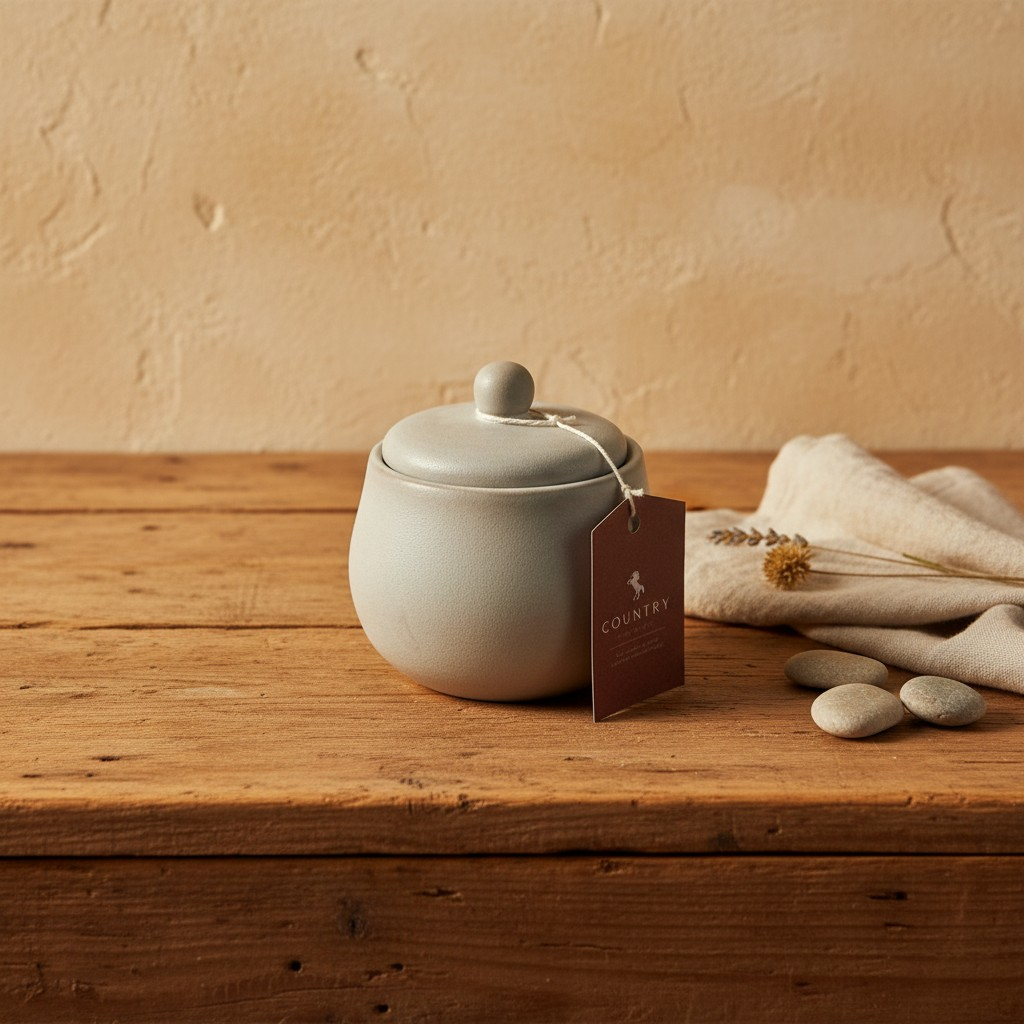
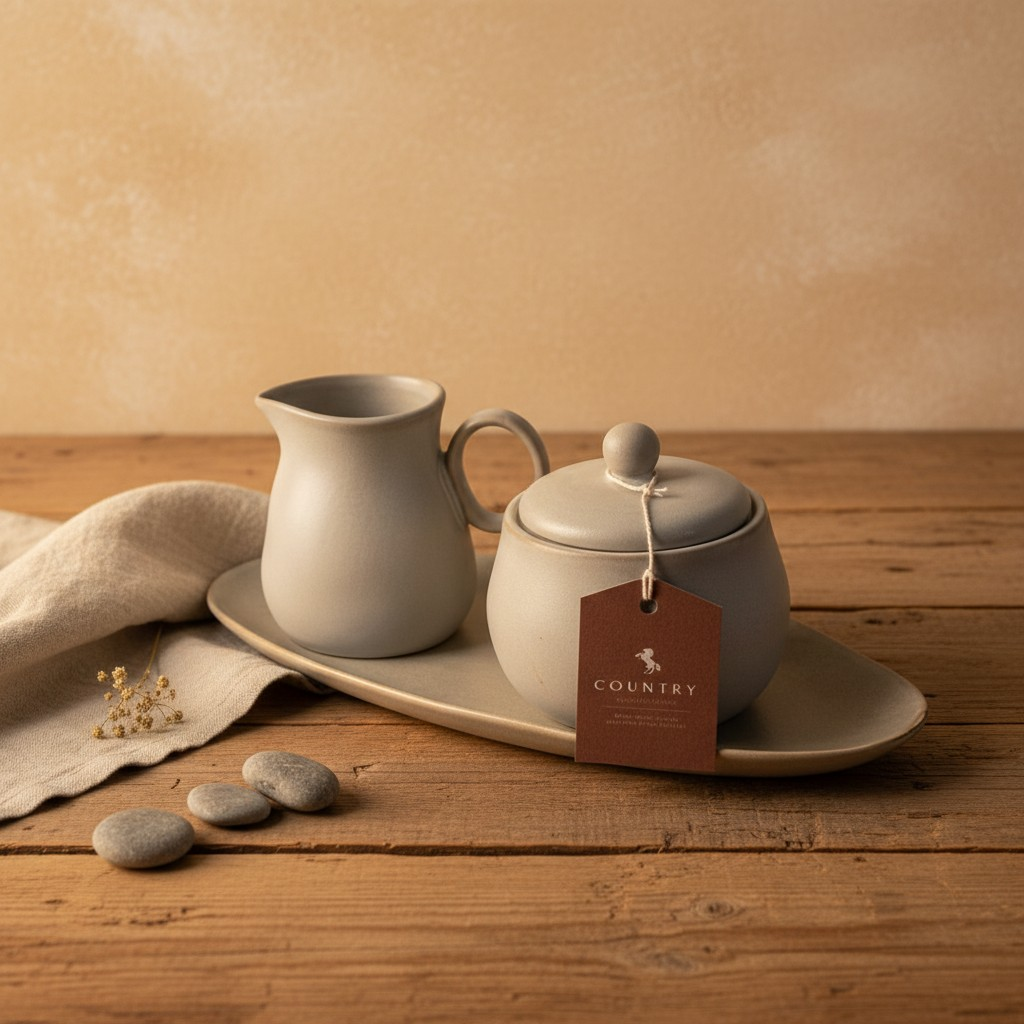
set-sorrento: add 4 set-completo photos as first images (total 7)

diff --git a/index.html b/index.html
@@ -2082,7 +2082,7 @@ src="https://www.facebook.com/tr?id=1479825037203290&ev=PageView&noscript=1"/></
   <div class="product" id="azucarera-sorrento"><img loading="lazy" class="main-photo" src="FOTOS/mishka/azucarera-sorrento/1.jpg" alt="Azucarera Sorrento"><div class="thumbnails"><img loading="lazy" src="FOTOS/mishka/azucarera-sorrento/1.jpg" class="active" onmouseover="changeMain(this)"><img loading="lazy" src="FOTOS/mishka/azucarera-sorrento/2.jpg" onmouseover="changeMain(this)"><img loading="lazy" src="FOTOS/mishka/azucarera-sorrento/3.jpg" onmouseover="changeMain(this)"><img loading="lazy" src="FOTOS/mishka/azucarera-sorrento/4.jpg" onmouseover="changeMain(this)"><img loading="lazy" src="FOTOS/mishka/azucarera-sorrento/5.jpg" onmouseover="changeMain(this)"><img loading="lazy" src="FOTOS/mishka/azucarera-sorrento/6.jpg" onmouseover="changeMain(this)"></div><div class="product-info"><div class="product-name">Azucarera Sorrento 10,5×11 cm</div><div class="product-desc">Porcelana · Línea Sorrento · Detalle que completa cualquier mesa · 10,5×11 cm</div><div class="product-price">$17.000</div><span class="product-tag">Mesa & Cocina</span></div></div>
   <div class="product" id="lechera-sorrento"><img loading="lazy" class="main-photo" src="FOTOS/mishka/lechera-sorrento/1.jpg" alt="Lechera Sorrento 280ml"><div class="thumbnails"><img loading="lazy" src="FOTOS/mishka/lechera-sorrento/1.jpg" class="active" onmouseover="changeMain(this)"><img loading="lazy" src="FOTOS/mishka/lechera-sorrento/2.jpg" onmouseover="changeMain(this)"><img loading="lazy" src="FOTOS/mishka/lechera-sorrento/3.jpg" onmouseover="changeMain(this)"><img loading="lazy" src="FOTOS/mishka/lechera-sorrento/4.jpg" onmouseover="changeMain(this)"><img loading="lazy" src="FOTOS/mishka/lechera-sorrento/5.jpg" onmouseover="changeMain(this)"><img loading="lazy" src="FOTOS/mishka/lechera-sorrento/6.jpg" onmouseover="changeMain(this)"></div><div class="product-info"><div class="product-name">Lechera Sorrento 280 ml</div><div class="product-desc">Porcelana · Línea Sorrento · Pequeño detalle de gran impacto en la mesa · 280 ml</div><div class="product-price">$16.500</div><span class="product-tag">Mesa & Cocina</span></div></div>
   <div class="product" id="bandeja-sorrento"><img loading="lazy" class="main-photo" src="FOTOS/mishka/bandeja-sorrento/1.jpg" alt="Bandeja Ovalada Sorrento"><div class="thumbnails"><img loading="lazy" src="FOTOS/mishka/bandeja-sorrento/1.jpg" class="active" onmouseover="changeMain(this)"><img loading="lazy" src="FOTOS/mishka/bandeja-sorrento/2.jpg" onmouseover="changeMain(this)"><img loading="lazy" src="FOTOS/mishka/bandeja-sorrento/3.jpg" onmouseover="changeMain(this)"></div><div class="product-info"><div class="product-name">Bandeja Ovalada Sorrento 30×14,5 cm</div><div class="product-desc">Porcelana · Línea Sorrento · Para servir con estilo · 30×14,5 cm</div><div class="product-price">$35.999</div><span class="product-tag">Mesa & Cocina</span></div></div>
-  <div class="product" id="set-sorrento"><img loading="lazy" class="main-photo" src="FOTOS/mishka/set-sorrento/1.jpg" alt="Set Completo Sorrento"><div class="thumbnails"><img loading="lazy" src="FOTOS/mishka/set-sorrento/1.jpg" class="active" onmouseover="changeMain(this)"><img loading="lazy" src="FOTOS/mishka/set-sorrento/2.jpg" onmouseover="changeMain(this)"><img loading="lazy" src="FOTOS/mishka/set-sorrento/3.jpg" onmouseover="changeMain(this)"></div><div class="product-info"><div class="product-name">Set Completo Sorrento</div><div class="product-desc">Porcelana · Línea Sorrento · Azucarera + Lechera + Bandeja Ovalada · El set completo para una mesa perfecta</div><div class="product-price">$60.000</div><span class="product-tag">Mesa & Cocina</span></div></div>
+  <div class="product" id="set-sorrento"><img loading="lazy" class="main-photo" src="FOTOS/mishka/set-sorrento/1.jpg" alt="Set Completo Sorrento"><div class="thumbnails"><img loading="lazy" src="FOTOS/mishka/set-sorrento/1.jpg" class="active" onmouseover="changeMain(this)"><img loading="lazy" src="FOTOS/mishka/set-sorrento/2.jpg" onmouseover="changeMain(this)"><img loading="lazy" src="FOTOS/mishka/set-sorrento/3.jpg" onmouseover="changeMain(this)"><img loading="lazy" src="FOTOS/mishka/set-sorrento/4.jpg" onmouseover="changeMain(this)"><img loading="lazy" src="FOTOS/mishka/set-sorrento/5.jpg" onmouseover="changeMain(this)"><img loading="lazy" src="FOTOS/mishka/set-sorrento/6.jpg" onmouseover="changeMain(this)"><img loading="lazy" src="FOTOS/mishka/set-sorrento/7.jpg" onmouseover="changeMain(this)"></div><div class="product-info"><div class="product-name">Set Completo Sorrento</div><div class="product-desc">Porcelana · Línea Sorrento · Azucarera + Lechera + Bandeja Ovalada · El set completo para una mesa perfecta</div><div class="product-price">$60.000</div><span class="product-tag">Mesa & Cocina</span></div></div>
   <div class="product" id="bowl-sundara-rectangular"><img loading="lazy" class="main-photo" src="FOTOS/mishka/bowl-sundara-rectangular/1.jpg" alt="Bowl Rectangular Sundara 700ml"><div class="thumbnails"><img loading="lazy" src="FOTOS/mishka/bowl-sundara-rectangular/1.jpg" class="active" onmouseover="changeMain(this)"><img loading="lazy" src="FOTOS/mishka/bowl-sundara-rectangular/2.jpg" onmouseover="changeMain(this)"><img loading="lazy" src="FOTOS/mishka/bowl-sundara-rectangular/3.jpg" onmouseover="changeMain(this)"><img loading="lazy" src="FOTOS/mishka/bowl-sundara-rectangular/4.jpg" onmouseover="changeMain(this)"><img loading="lazy" src="FOTOS/mishka/bowl-sundara-rectangular/5.jpg" onmouseover="changeMain(this)"><img loading="lazy" src="FOTOS/mishka/bowl-sundara-rectangular/6.jpg" onmouseover="changeMain(this)"></div><div class="product-info"><div class="product-name">Bowl Rectangular Sundara 700 ml</div><div class="product-desc">Diseño orgánico y artesanal · Ideal para presentaciones en la mesa · 700 ml</div><div class="product-price">$45.999</div><span class="product-tag">Mesa & Cocina</span></div></div>
   <div class="product" id="bowl-sundara-redondo"><img loading="lazy" class="main-photo" src="FOTOS/mishka/bowl-sundara-redondo/1.jpg" alt="Bowl Redondo Sundara 1000ml"><div class="thumbnails"><img loading="lazy" src="FOTOS/mishka/bowl-sundara-redondo/1.jpg" class="active" onmouseover="changeMain(this)"><img loading="lazy" src="FOTOS/mishka/bowl-sundara-redondo/2.jpg" onmouseover="changeMain(this)"><img loading="lazy" src="FOTOS/mishka/bowl-sundara-redondo/3.jpg" onmouseover="changeMain(this)"><img loading="lazy" src="FOTOS/mishka/bowl-sundara-redondo/4.jpg" onmouseover="changeMain(this)"><img loading="lazy" src="FOTOS/mishka/bowl-sundara-redondo/5.jpg" onmouseover="changeMain(this)"><img loading="lazy" src="FOTOS/mishka/bowl-sundara-redondo/6.jpg" onmouseover="changeMain(this)"><img loading="lazy" src="FOTOS/mishka/bowl-sundara-redondo/7.jpg" onmouseover="changeMain(this)"></div><div class="product-info"><div class="product-name">Bowl Redondo Sundara 1000 ml</div><div class="product-desc">Forma orgánica generosa · Para pastas, ensaladas y servicio en mesa · 1000 ml</div><div class="product-price">$47.999</div><span class="product-tag">Mesa & Cocina</span></div></div>
   <div class="product" id="vasos-maja-x4"><img loading="lazy" class="main-photo" src="FOTOS/mishka/vasos-maja-x4/1.jpg" alt="Set x4 Vasos Maja 420 ml"><div class="thumbnails"><img loading="lazy" src="FOTOS/mishka/vasos-maja-x4/1.jpg" class="active" onmouseover="changeMain(this)"><img loading="lazy" src="FOTOS/mishka/vasos-maja-x4/2.jpg" onmouseover="changeMain(this)"><img loading="lazy" src="FOTOS/mishka/vasos-maja-x4/3.jpg" onmouseover="changeMain(this)"><img loading="lazy" src="FOTOS/mishka/vasos-maja-x4/4.jpg" onmouseover="changeMain(this)"><img loading="lazy" src="FOTOS/mishka/vasos-maja-x4/5.jpg" onmouseover="changeMain(this)"><img loading="lazy" src="FOTOS/mishka/vasos-maja-x4/6.jpg" onmouseover="changeMain(this)"><img loading="lazy" src="FOTOS/mishka/vasos-maja-x4/7.jpg" onmouseover="changeMain(this)"><img loading="lazy" src="FOTOS/mishka/vasos-maja-x4/8.jpg" onmouseover="changeMain(this)"></div><div class="product-info"><div class="product-name">Set x4 Vasos Maja 420 ml</div><div class="product-desc">Fabricado con vidrio borosilicato · Resistente y liviano · Resiste cambios bruscos de temperatura · Para agua, jugos o cócteles · Set de 4 · 420 ml c/u</div><div class="product-price">$61.999</div><span class="product-tag">Mesa &amp; Cocina</span></div></div>
